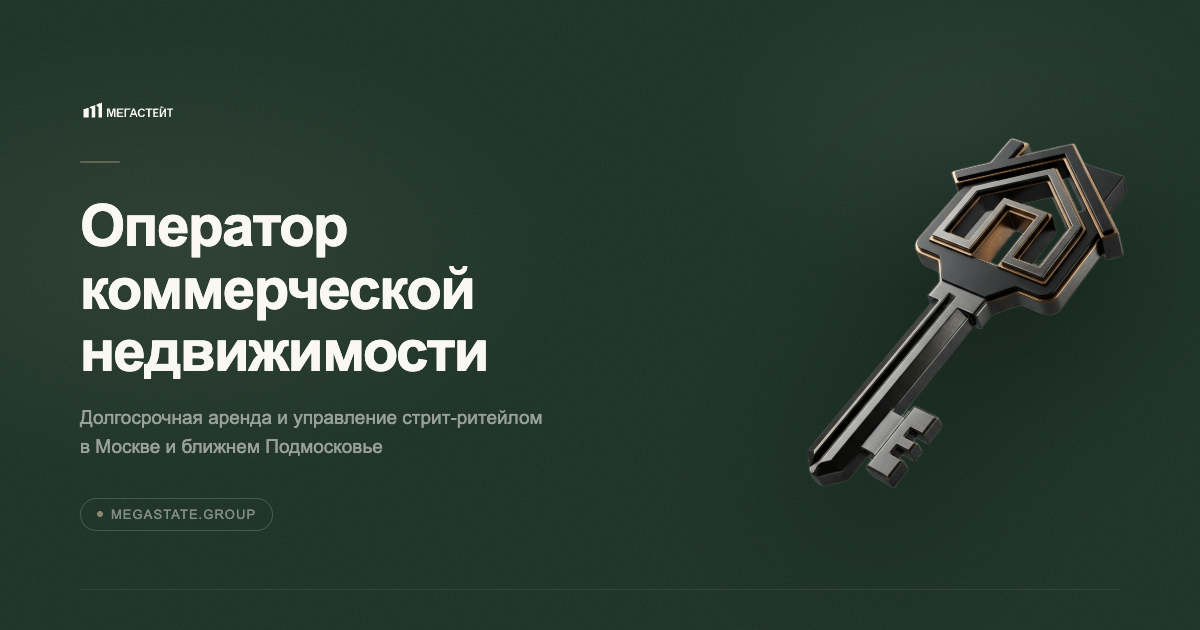
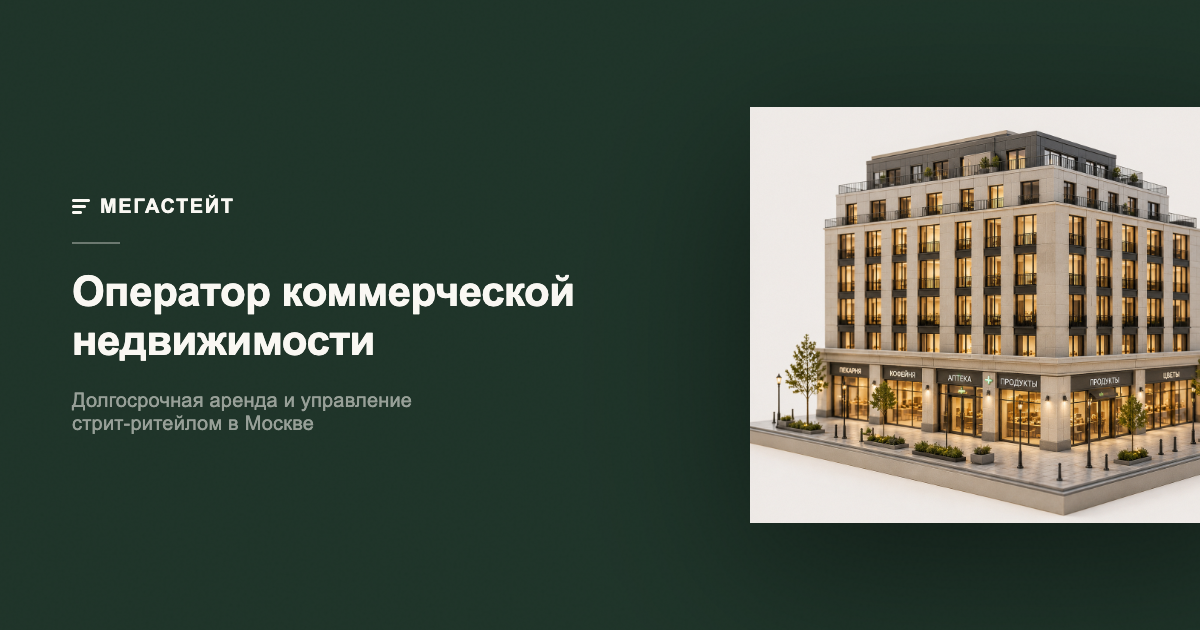
feat: replace CTA 3D with object_green, fix mobile hero images, update OG
- ConnectCTA: glass-building → object_green.png
- Mobile: split-hero-media now shows (280px strip) instead of display:none
  — affects owners, tenants, approach, company hero images on mobile
- OG image: regenerated with object_green (3D building facade) replacing key

diff --git a/app/globals.css b/app/globals.css
@@ -242,7 +242,14 @@ h3 {
     grid-template-columns: 1fr;
   }
   .split-hero-media {
-    display: none;
+    height: 280px;
+    min-height: 0 !important;
+  }
+}
+@media (max-width: 480px) {
+  .split-hero-media {
+    height: 220px;
+    min-height: 0 !important;
   }
 }
 

diff --git a/components/sections/ConnectCTA.tsx b/components/sections/ConnectCTA.tsx
@@ -26,7 +26,7 @@ export default function ConnectCTA() {
         }}
       >
         <Image
-          src="/_images/3d-element-glass-building-abstract.png"
+          src="/_images/object_green.png"
           alt=""
           width={500}
           height={500}